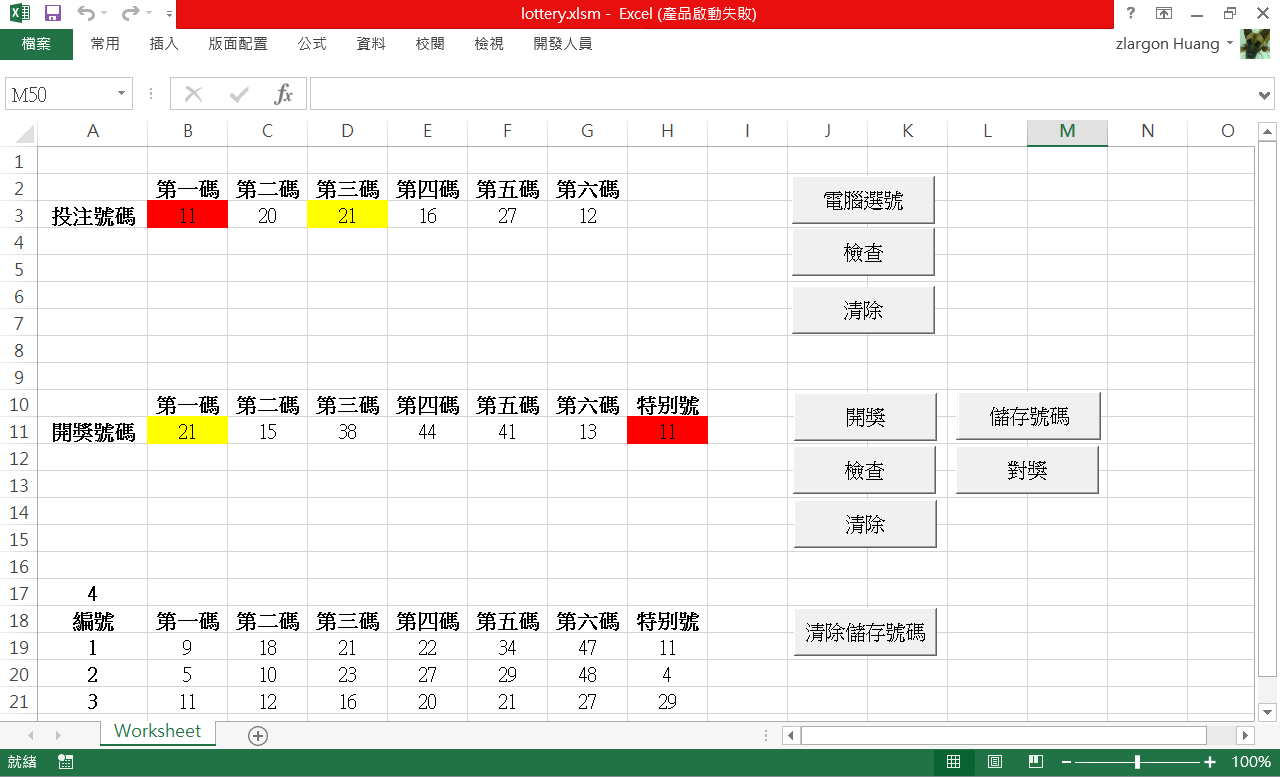
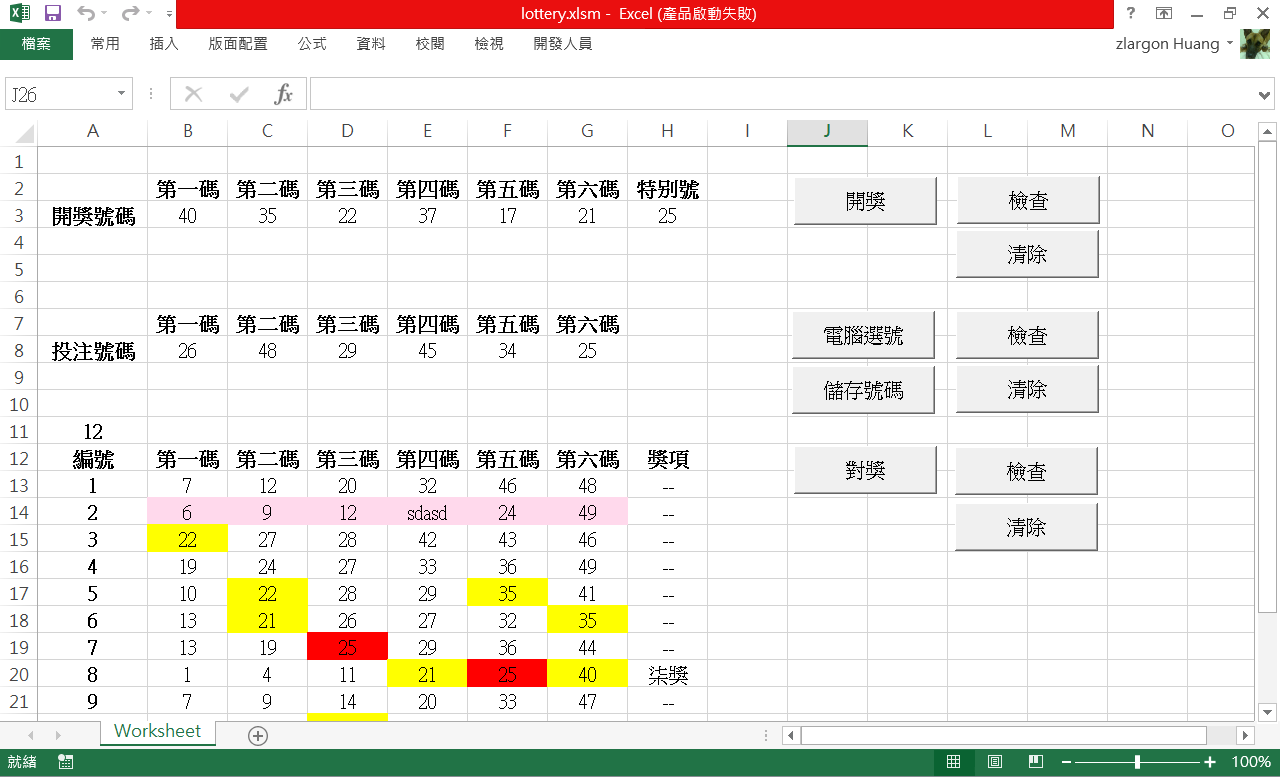
update README and snapshot

diff --git a/README.md b/README.md
@@ -11,22 +11,32 @@
 - 投注號碼
 	- [x] 手動選號
 	- [x] 電腦選號
-		- 六個號碼（1 ~ 49 號）
+		- 6 個號碼（1 ~ 49 號）
 	- [x] 檢查投注號碼
 		- 跳出提醒視窗，檢查範圍
+	- [x] 儲存開獎號碼
+		- 排序後儲存
 	- [x] 清除投注號碼
 - 開獎號碼
 	- [x] 產生開獎號碼
-		- 六個號碼（1 ~ 49 號）
-		- 一個特別號
+		- 6 個號碼（1 ~ 49 號）+ 1 個特別號
 	- [x] 檢查開獎號碼
 		- 跳出提醒視窗，檢查範圍
 	- [x] 清除開獎號碼
-	- [x] 儲存開獎號碼
+- 儲存號碼
 	- [x] 對獎
 		- 顯示中獎獎項
-		- 中獎之儲存格號碼以相同顏色標示
-- [x] 清除儲存號碼
+		- 對中的儲存格，以相同顏色標示
+		- 顏色
+			- 中一般號，以黃色標示
+			- 中特別號，以紅色標示
+	- [x] 檢查儲存號碼
+		- 檢查不正確的儲存格，以粉紅色標示
+	- [x] 清除儲存號碼
+
+## 操作介面
+
+![Worksheet](https://raw.githubusercontent.com/zlargon/vba-lottery/master/worksheet.png)
 
 ## License
 
